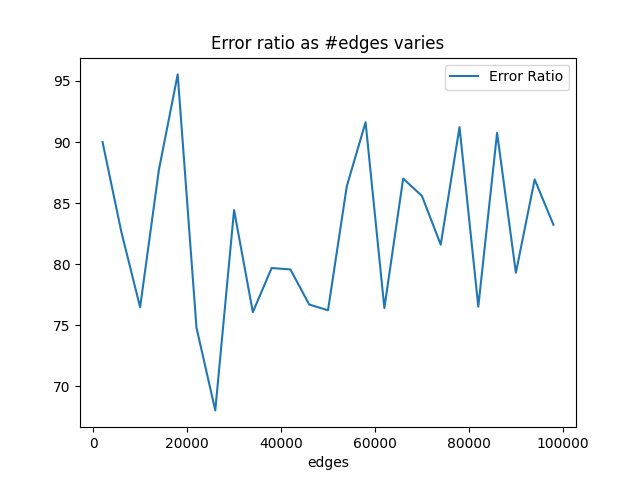
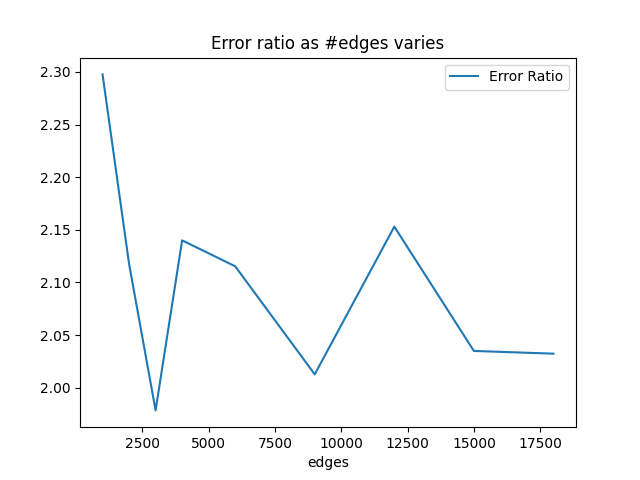
Sorry James for not finishing more sections...

diff --git a/cluster/opcount_tests.py b/cluster/opcount_tests.py
@@ -9,10 +9,10 @@ def test(graph, eps, c):
     error = graph.get_clustering_error(labels)
     opt_error = graph.get_optimum_clustering_error() or 1
     print(len(clusters))
-    for c in clusters:
-        if c < 0:
-            continue
-        print(clusters[c])
+    #for c in clusters:
+    #    if c < 0:
+    #        continue
+    #    print(clusters[c])
     #for tag, num in sorted(operation_counter.tagged_counts.items(), key=lambda x: x[1]):
     #    print("Num for tag", tag, "is", num)
     return operation_counter.operation_count, operation_counter.graph_access_count, error, opt_error
@@ -51,23 +51,26 @@ if __name__ == "__main__":
     import matplotlib.pyplot as plt
 
 
-    #vertices, edges, clusters, prob_flip = 10_000, 1_000_000, 10, 0.45
+    #vertices, edges, clusters, prob_flip = 10_000, 1_000_000, 10, 0.10
     #graph = RandomGraph(vertices, edges, clusters, prob_flip)
-    graph = vector_graph(10000, 0.05, 0.05)
+    #graph = vector_graph(10000, 0.05, 0.05)
     
 
 
-    """
+    
     # Make graph for finding optimal epsilon
     ops_data = []
     acs_data = []
     err_data = []
-    edges_list = [2_00 * x for x in range(10, 500, 20)]
+    edges_list = [1000, 2000, 3000, 4000] + [1_000 * i for i in range(6, 20, 3)]
     for edges in edges_list:
         c = 1
-        eps = 0.04
-        vertices, edges, clusters, prob_flip = 2_00, edges, 10, 0.1
+        eps = 0.01
+        vertices, edges, clusters, prob_flip = 1_000, edges, 10, 0.3
         graph = RandomGraph(vertices, edges, clusters, prob_flip)
+        #ratio = min(0.5, edges / (9978 ** 2))
+        #print("Ratio is", ratio)
+        #graph = vector_graph(9978, ratio, ratio)
         ops, acs, err, opt_err = test(graph, eps, c)
         ops_data.append(ops)
         acs_data.append(acs)
@@ -91,7 +94,7 @@ if __name__ == "__main__":
     plt.xlabel(r"edges")
     plt.title(r"Error ratio as #edges varies")
     plt.legend()
-    """
+    
 
     """
     cs = []
@@ -108,10 +111,10 @@ if __name__ == "__main__":
     ops_data = []
     acs_data = []
     err_data = []
-    eps_list = [0.1*i for i in range(1, 10)]
+    eps_list = []#0.1*i for i in range(1, 10)]
     c_list = [0.01*2**i for i in range(11)]
     for c in c_list:
-        eps = 0.2
+        eps = 0.3
         ops, acs, err, opt_err = test(graph, eps, c)
         ops_data.append(ops)
         acs_data.append(acs)
@@ -128,18 +131,54 @@ if __name__ == "__main__":
     plt.plot(c_list, acs, label="Access Count")
     plt.xlabel(r"$c$")
     plt.legend()
+    plt.title(r"Running time as $c$ varies")
     plt.show()
 
     plt.plot(c_list, err, label="Error Ratio")
     plt.xlabel(r"$c$")
+    plt.title(r"Error ratio as $c$ varies")
     plt.legend()
     """
 
+    """
+    # Make graph for finding optimal $\varepsilon$:
 
+    ops_data = []
+    acs_data = []
+    err_data = []
+    eps_list = [i * 0.1 for i in range(1, 10)]
+    for eps in eps_list:
+        c = 1
+        ops, acs, err, opt_err = test(graph, eps, c)
+        ops_data.append(ops)
+        acs_data.append(acs)
+        err_data.append(err / opt_err)
+        print("(Graph Length, epsilon, c) =", len(graph), eps, c)
+        print("(Operations, Graph accesses) =", ops, acs)
+        print("(Clustering error, Optimal error, ratio) =", err, opt_err, err / opt_err)
+
+
+    ops = np.array(ops_data)
+    acs = np.array(acs_data)
+    err = np.array(err_data)
+    plt.plot(eps_list, ops, label="Operation Count")
+    plt.plot(eps_list, acs, label="Access Count")
+    plt.xlabel(r"$c$")
+    plt.legend()
+    plt.title(r"Running time as $\varepsilon$ varies")
+    plt.show()
+
+    plt.plot(eps_list, err, label="Error Ratio")
+    plt.xlabel(r"$\varepsilon$")
+    plt.title(r"Error ratio as $\varepsilon$ varies")
+    plt.legend()
+    """
+
+    """
     # Make graph for finding optimal epsilon
 
     fig, axs = plt.subplots(2, 2)
-    for ax, percentile in zip(axs.flat, [0.0002, 0.004, 0.08, 1.6]):
+    for ax, percentile in zip(axs.flat, [0.0025, 0.05, 1.0, 20.0]):
         percentile /= 100
         graph = vector_graph(10000, percentile, percentile)
         ops_data = []
@@ -160,14 +199,14 @@ if __name__ == "__main__":
         ops = np.array(ops_data)
         acs = np.array(acs_data)
         err = np.array(err_data)
-        """
+        
         ax.plot(eps_list, ops, label="Operation Count")
         ax.plot(eps_list, acs, label="Access Count")
         ax.set_xlabel(r"$\varepsilon$")
         ax.legend()
         ax.set_title(r"Running time as $\varepsilon$ varies")
         plt.show()
-        """
+        
 
         ax.plot(eps_list, err, label="Error Ratio")
         ax.set_xlabel(r"$\varepsilon$")
@@ -175,6 +214,7 @@ if __name__ == "__main__":
         ax.legend()
 
     plt.show()
+    """
 
     """
     x, y = np.meshgrid(eps_list, c_list)

diff --git a/Final Paper.md b/Final Paper.md
@@ -39,7 +39,7 @@ Luckily, in practice $\varepsilon$ can be raised to much larger values while mai
 For both datasets running time improved as $\varepsilon$ increased, as fewer edges needed to be considered. However, the thesaurus dataset differed from the random dataset with the errors. As $\varepsilon$ transitioned from less than $0.25$ to more than $0.25$ we saw a pronounced increase in the number of errors on the real-world data, while a marked improvement in accurracy for the random dataset. Note that determining the optimum for the thesaurus dataset is NP-hard, so we instead give the error count.
 
 ![[opposite_trends.png]]
-This difference likely arises as there are only ~8,000 antonyms compared to ~200,000 synonyms in the thesaurus. Putting all words into one cluster is guaranteed to have very few errors, while separating into multiple clusters risks synonyms being in different clusters. Also, the thesaurus dataset is extremely sparse, which is apparent from the lack of a bump in running time past the $\varepsilon=0.25$ mark.
+This difference likely arises as there are only ~8,000 antonyms compared to ~200,000 synonyms in the thesaurus. Putting all words into one cluster is guaranteed to have very few errors, while separating into multiple clusters risks synonyms being in different clusters.
 
 For the random dataset, we see this improvement in error ratio even as we change the fraction of edges' correlations that are flipped, how many clusters there are, and the size of the graph. For example, the below graphs show the algorithm run with $\varepsilon < 0.25$ and $\varepsilon > 0.25$ and a varying number of edges. Even the sparser random datasets have over four times the error when $\varepsilon < 0.25$, and as it gets denser this increases to over twenty times!
 
@@ -50,43 +50,46 @@ $\varepsilon < 0.25$ | $\varepsilon > 0.25$
 To get a denser model based on real-world data, we create a new dataset using word vectors. It is well known their dot products are a measure of correlation, with very positive dot products being highly correlated while very negative dot products are anticorrelated, so we assign plus-edges to the top percentiles of these dot products, and minus-edges to the bottom. Changing this fraction allows for sparser or denser graphs.
 
 For all levels of sparsity, we an error ratio trend similar to that of the random graphs:
+![[percentile_change.png]]
+For both the random graph and the graph based on word vectors, the best clustering occurs when $\varepsilon$ is slightly larger than $0.25$.
 
+Likewise, the running time improves as $\varepsilon$ increases:
+![[running_time_as_eps_varies_word_vector.png]]
 
+This suggests several things, most notably that filtering by isolated neighbors is actually detrimental to the performance of the algorithm! Although it's theoretically necessary to do this filtering to gurantee an $O(1)$ approximation (as the thesaurus dataset somewhat shows), in practice it's not only faster to not do so, but also more accurate.
 
-Regardless, it suggests random datasets are not a good model for real-world datasets, so from here on out we will use only the latter. To allow control for the density of graphs, we created an additional dataset from word vectors. Two words vectors are given a plus edge if their dot products are among the top few percent of all word-word dot products (very positive), and a minus edge if they are among the bottom few percent (very negative). As expected, we see a similar trend as to the thesaurus dataset:
+In conclusion, real world data often looks similar to the random dataset we built, and for these types of data, setting $\varepsilon$ to be slightly more than $0.25$ is a good choice.
 
-< INSERT IMAGES HERE >
-
-
-
-
-
-< INSERT IMAGES HERE >
-
-In practice, then, there is extremely compelling evidence that filtering out "sparse" vertices actually hampers the algorithm, not improves it! If anything, this filter seems only necessary to prove their theoretical bounds, and doesn't actually improve the clustering in practice. This implies that the following, simpler algorithm, might actually have the same theoretical bounds as well:
-1. 
-
-### Operation Count
-
-First, we tested on a graph with about ten thousand vertices, one million edges, and ten clusters. Holding $c$ fixed at one gives
-and ![[error_ratio_c_constant.png]]
-Holding $\varepsilon$ fixed at $0.2$ gives the following graphs:
-![[acs_eps_constant.png]] ![[ops_eps_constant.png]]
-![[error_ratio_eps_constant.png]]
-As you can see, once the operation count begins flat-lining (i.e. we get close to every edge being read), the error ratio increases. There's a sweet spot in the middle with a low error ratio, when $c\approx 30\varepsilon^{-2}$.
 ## Choice of $c$
-In their paper, Assadi and Wang state that "there is an absolute constant $c > 0$" for which their algorithm works, but they never specify exactly what $c$ has to be. In fact, they only imply what restrictions $c$ might have by constraints on other variables. These constraints imply that $c$ to be at least $\varepsilon^2$. Since $\varepsilon^2$ is rather small, this means that $c$ can be just about anything.
+In their paper, Assadi and Wang state that "there is an absolute constant $c > 0$" for which their algorithm works, but they never specify exactly what $c$ has to be. In fact, they only imply what restrictions $c$ might have by constraints on other variables. These constraints imply that $c$ to be on the order of at least $\varepsilon^2$. Since $\varepsilon^2$ is rather small, this means that $c$ can be just about anything.
 
-Nevertheless, it's not very *useful* to make $c$ as small as possible. While lowering $c$ speeds up the algorithm by requiring fewer graph accesses, it also lowers its performance because the algorithm has less information to make use of. In this section, we explore the tradeoffs of what  $c$ should be, and demonstrate that $c \approx 2$ yields good results with competitive results.
+Nevertheless, setting $c = \varepsilon^2$ is hardly useful. While lowering $c$ speeds up the algorithm by requiring fewer graph accesses, it also lowers its performance because the algorithm has less information to make use of. In this section, we explore the tradeoffs of what  $c$ should be, and demonstrate that $c \approx 2$ yields good results with competitive results.
 
-TODO: The choice of $c \approx 2$ was arbitrary and a stand-in for what the correct value should be. Fix this!!
+In the previous section, we showed that a good choice of $\varepsilon$ is not much more than $0.25$. For this section, we set $\varepsilon = 0.3$.
 
-TODO: Actually make this section
+Using the random graph, we get the following approximations as $c$ varies:
+![[error_ratio_as_c_varies.png]]
+Using the word vector graph gives a similar chart:
+![[error_ratio_as_c_varies_word_vector.png]]
+
+In both cases, the running time scales linearly with $c$:
+
+Random | Word Vector
+:----:|:----:
+![[running_time_as_c_varies.png]] | ![[running_time_as_c_varies_word_vector.png]]
+
+A good trade off, then, between runtime and error ratio appears to be setting $c \approx 2$.
 
 ## Sublinear Time
-In this section, we use the previously chosen $\varepsilon$ and $c$ to analyze the speed of the algorithm and demonstrate that it is sublinear in time (even without the gurantees of the theoretical results).
+It's easy enough to theoretically show that the algorithm described above is sublinear in the number of edges no matter what the specific choices of $\varepsilon$ and $c$ are. (Indeed, Assadi and Wang's paper is important not because their algorithm is sublinear in time, but because it has $O(1)$ competitiveness.) In this section, we demonstrate this by analyzing the runtime for fixed $\varepsilon = 0.3$ and $c = 2$.
 
-TODO: Make this section
+TODO: Uh oh James! This doesn't actually work! The graphs appear to have linear time!!!
+Random | Word Vector
+:----:|:----:
+![[running_time_as_edges_varies.png]] | ![[running_time_as_edges_varies_word_vector.png]]
+
+I think this is where we need the filter part! We have sublinear time for low $\varepsilon$. The following graph is for where $\varepsilon = 0.01$:
+![[error_ratio_as_edges_varies_low_epsilon.png]]
 
 ## Competitiveness
 Just how competitive is the algorithm Assadi and Wang develop? In this section, we demonstrate that it typically finds solutions that are less than three times worse than the optimum. This is a similar ratio of competitiveness to top algorithms like
